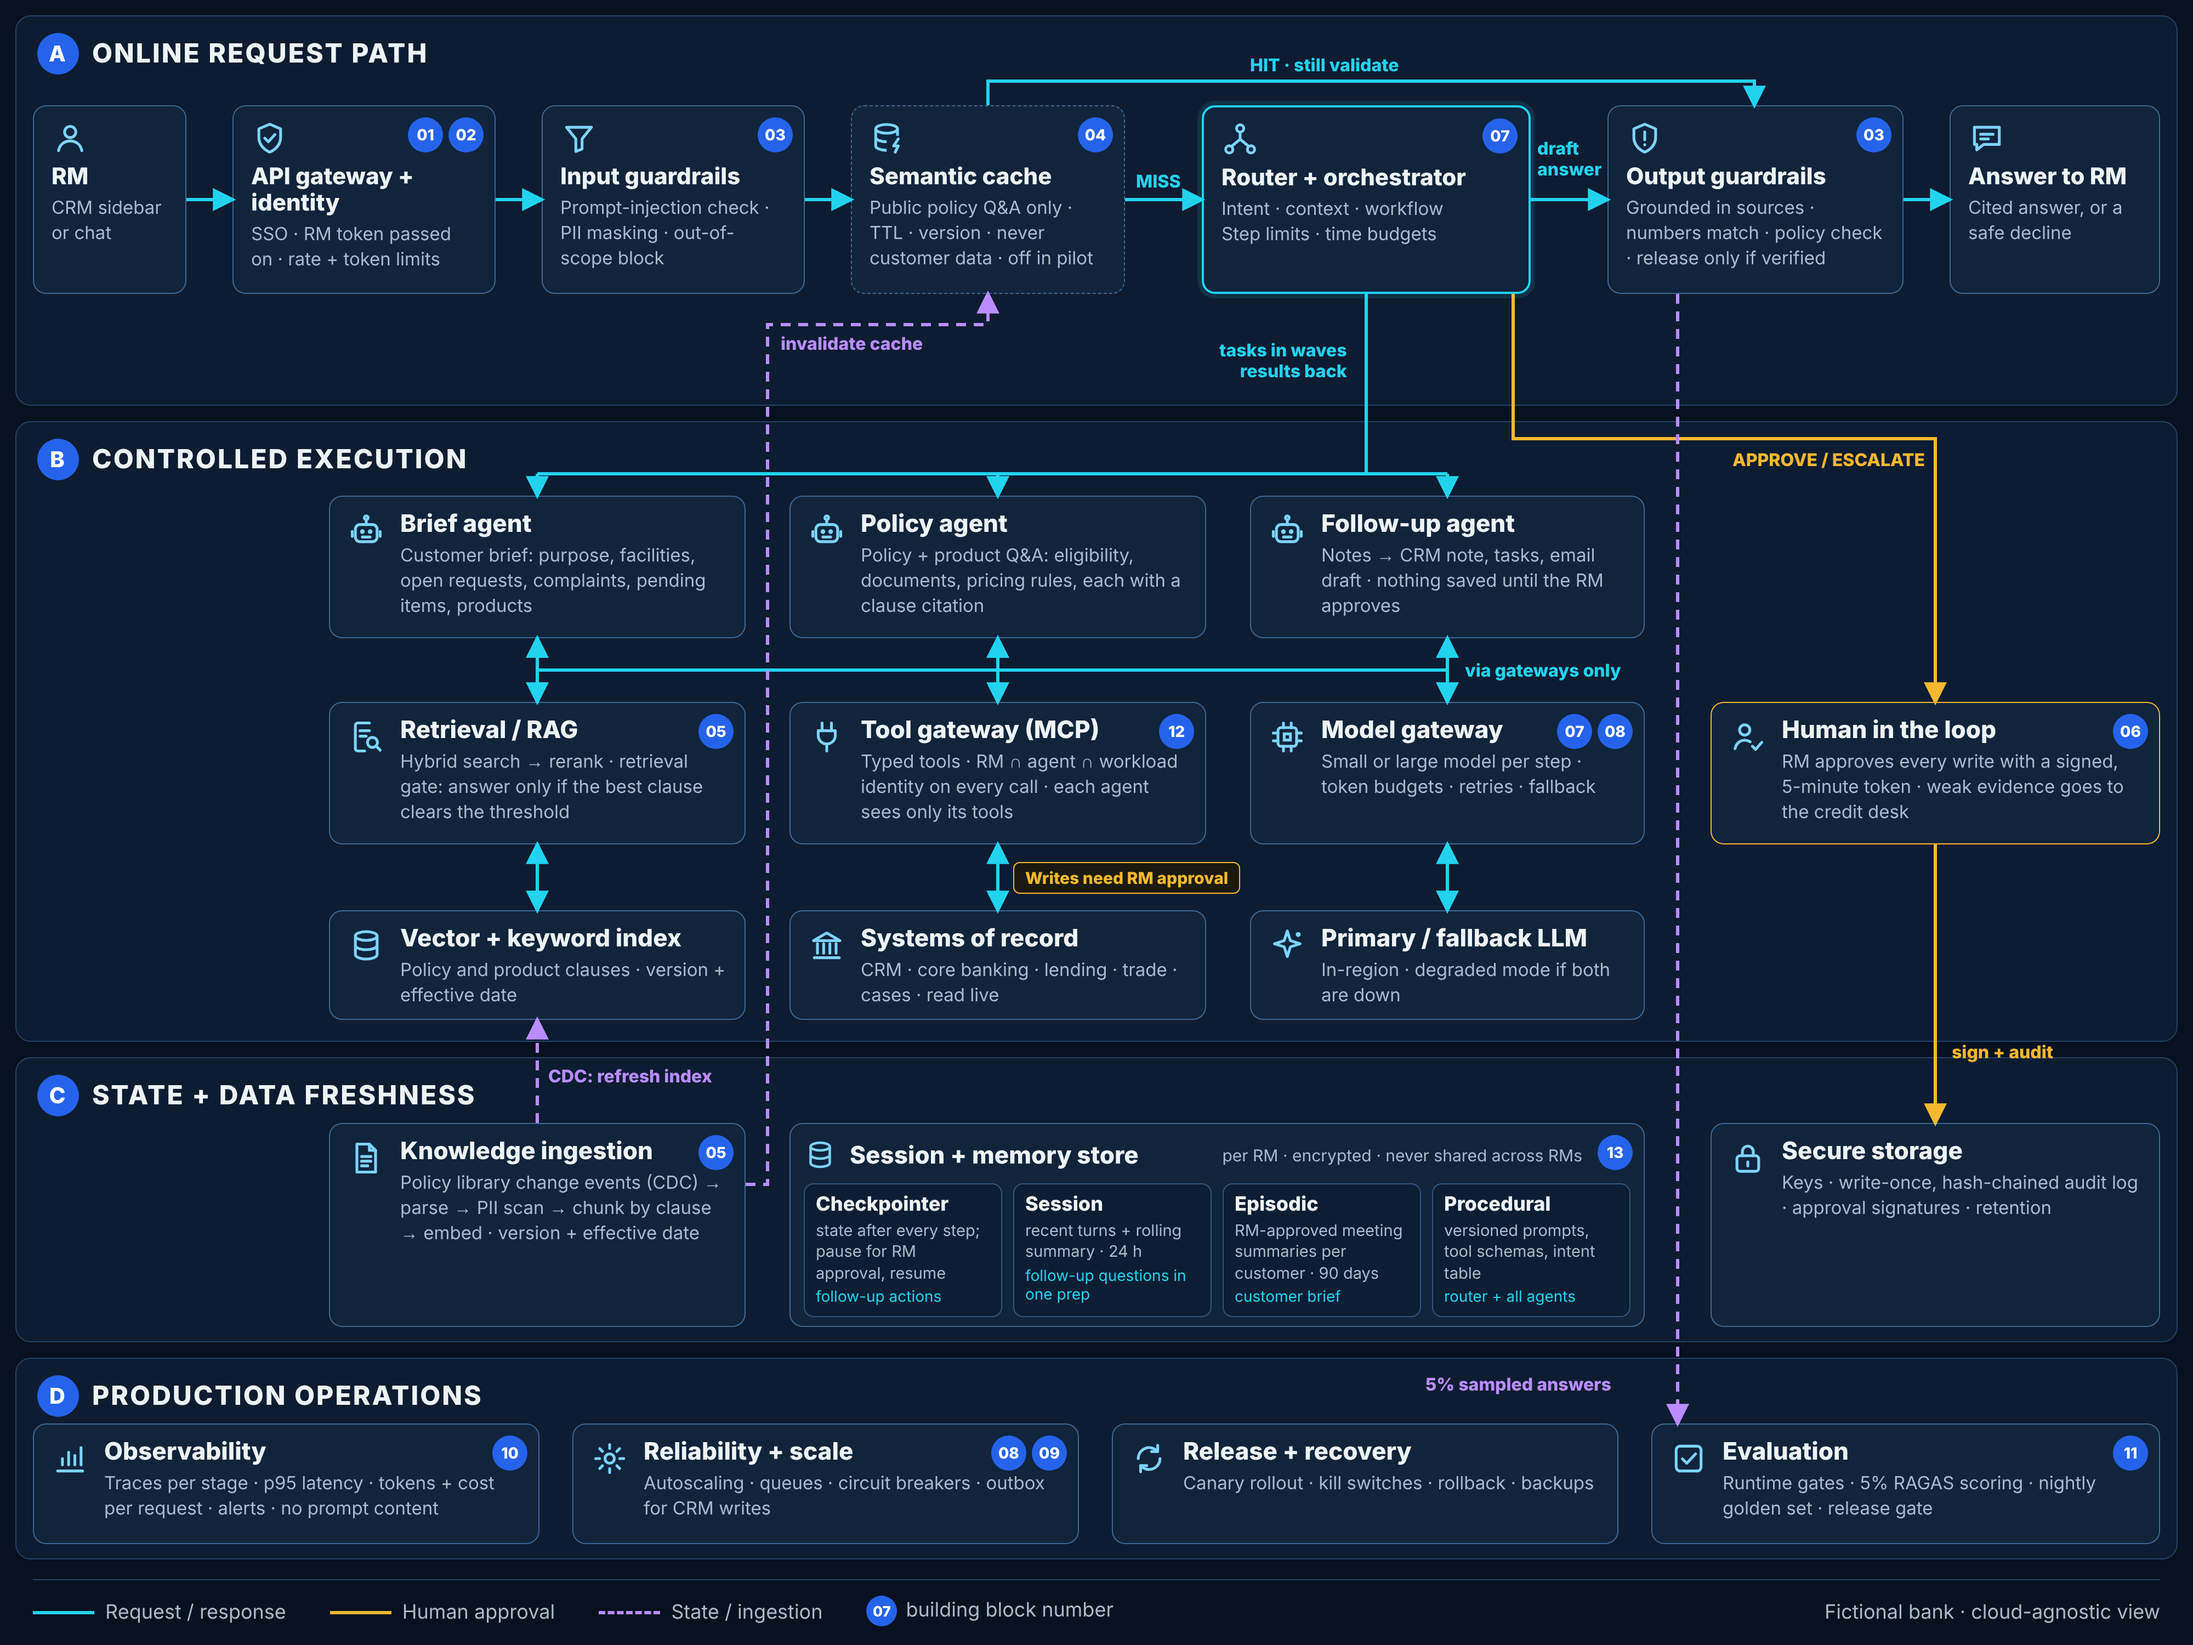
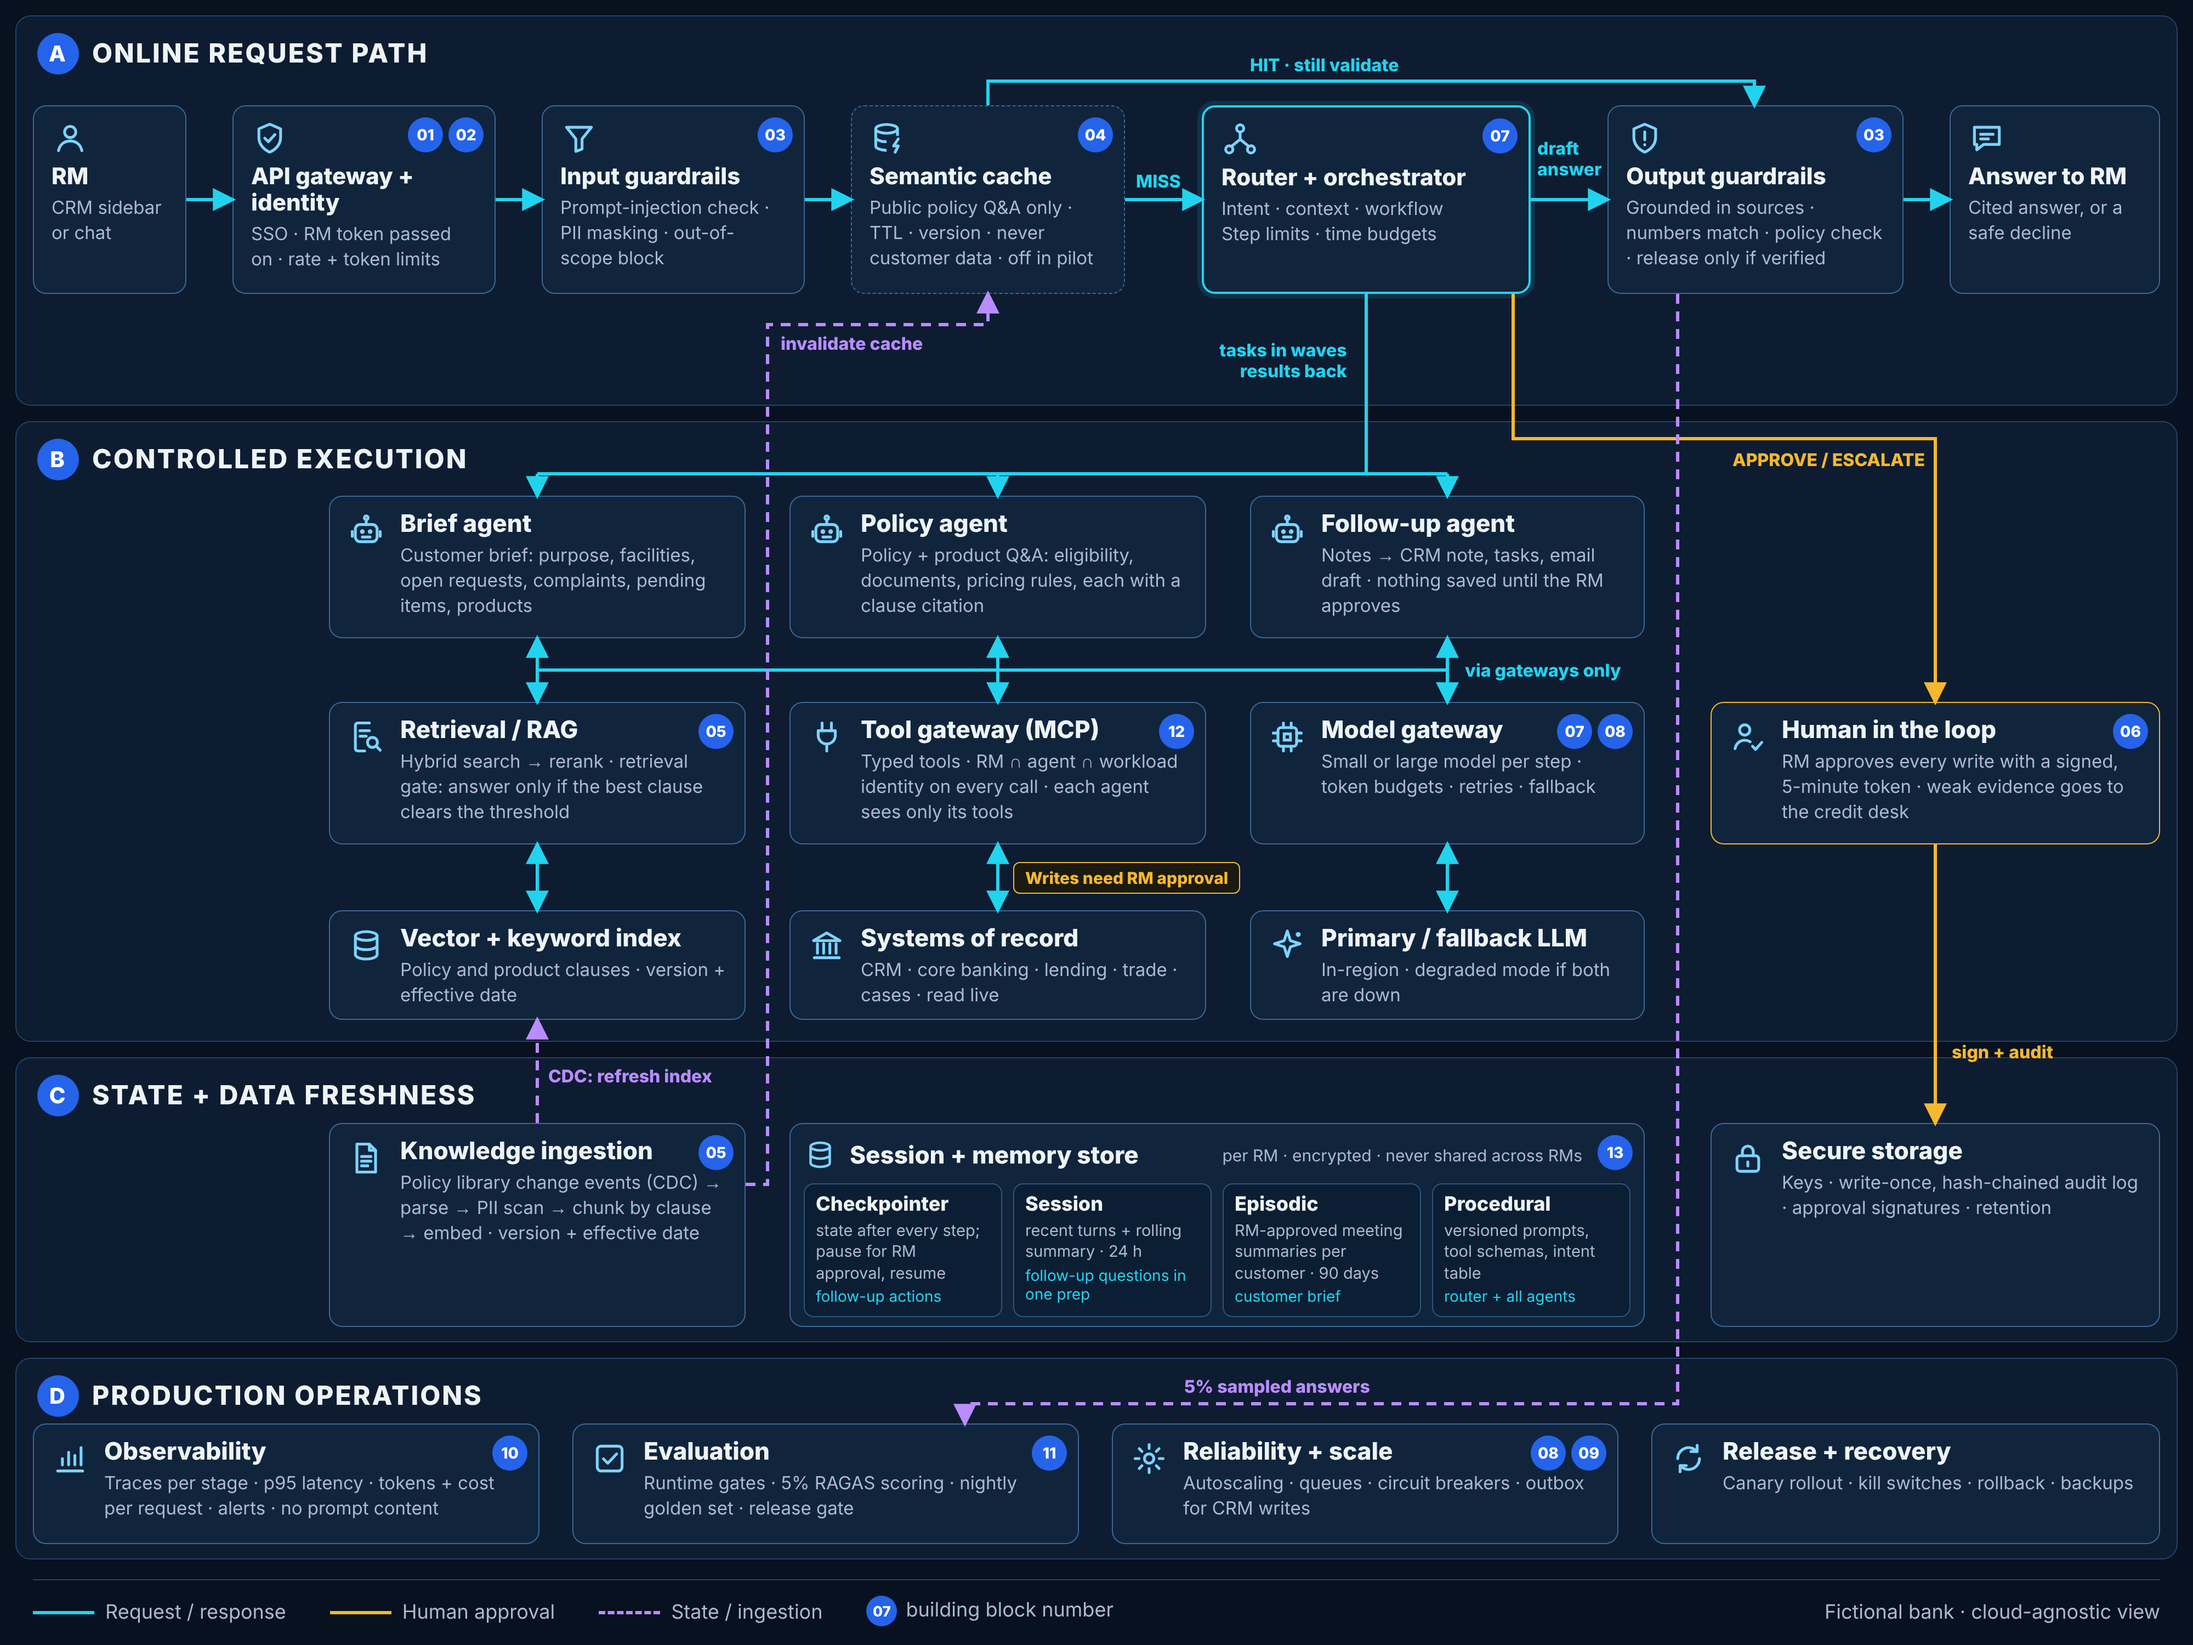
Simple HLD: production lane ordered observability, evaluation, reliability, release
Claude-Session: https://claude.ai/code/session_017mnFTtgPUTPw2EMPKevzKD

diff --git a/docs/architecture/diagrams/simple-hld/simple-hld.html b/docs/architecture/diagrams/simple-hld/simple-hld.html
@@ -95,7 +95,7 @@ svg.wires { position:absolute; left:0; top:0; pointer-events:none; }
 <div class="lbl a" style="left:1580px;top:410px">APPROVE / ESCALATE</div>
 <div class="lbl a" style="left:1780px;top:950px">sign + audit</div>
 <div class="lbl v" style="left:500px;top:972px">CDC: refresh index</div>
-<div class="lbl v" style="left:1300px;top:1253px">5% sampled answers</div>
+<div class="lbl v" style="left:1080px;top:1255px">5% sampled answers</div>
 <div class="pill" style="left:924px;top:786px">Writes need RM approval</div>
 <svg class="wires" width="2000" height="1500" viewBox="0 0 2000 1500" id="w"></svg>
 
@@ -124,9 +124,9 @@ const BOX = [
  [300,1024,380,186,'row','doc',['05'],'Knowledge ingestion','Policy library change events (CDC) → parse → PII scan → chunk by clause → embed · version + effective date'],
  [1560,1024,410,186,'row','lock',[],'Secure storage','Keys · write-once, hash-chained audit log · approval signatures · retention'],
  [30,1298,462,110,'row','chart',['10'],'Observability','Traces per stage · p95 latency · tokens + cost per request · alerts · no prompt content'],
- [522,1298,462,110,'row','gear',['08','09'],'Reliability + scale','Autoscaling · queues · circuit breakers · outbox for CRM writes'],
- [1014,1298,462,110,'row','cycle',[],'Release + recovery','Canary rollout · kill switches · rollback · backups'],
- [1506,1298,464,110,'row','check',['11'],'Evaluation','Runtime gates · 5% RAGAS scoring · nightly golden set · release gate'],
+ [1014,1298,462,110,'row','gear',['08','09'],'Reliability + scale','Autoscaling · queues · circuit breakers · outbox for CRM writes'],
+ [1506,1298,464,110,'row','cycle',[],'Release + recovery','Canary rollout · kill switches · rollback · backups'],
+ [522,1298,462,110,'row','check',['11'],'Evaluation','Runtime gates · 5% RAGAS scoring · nightly golden set · release gate'],
 ];
 document.getElementById('boxes').innerHTML = BOX.map(([x,y,w,h,l,ic,bd,t,d,cls]) =>
   `<div class="b ${l} ${cls||''} ${bd.length>1?'hb2':bd.length?'hb':''}" style="left:${x}px;top:${y}px;width:${w}px;height:${h}px">` +
@@ -145,7 +145,7 @@ const W = [
  [[[1765,770],[1765,1024]],'a'],
  [[[490,1024],[490,930]],'v',1],
  [[[680,1080],[700,1080],[700,296],[901,296],[901,268]],'v',1],
- [[[1530,268],[1530,1298]],'v',1],
+ [[[1530,268],[1530,1280],[880,1280],[880,1298]],'v',1],
 ];
 const col = {c:'#22D3EE', a:'#F5B82E', v:'#B98DFF'};
 let s = '<defs>' + Object.entries(col).map(([k,v]) => `<marker id="m${k}" viewBox="0 0 10 10" refX="8.5" refY="5" markerWidth="7" markerHeight="7" orient="auto-start-reverse"><path d="M0,0L10,5L0,10z" fill="${v}"/></marker>`).join('') + '</defs>';
